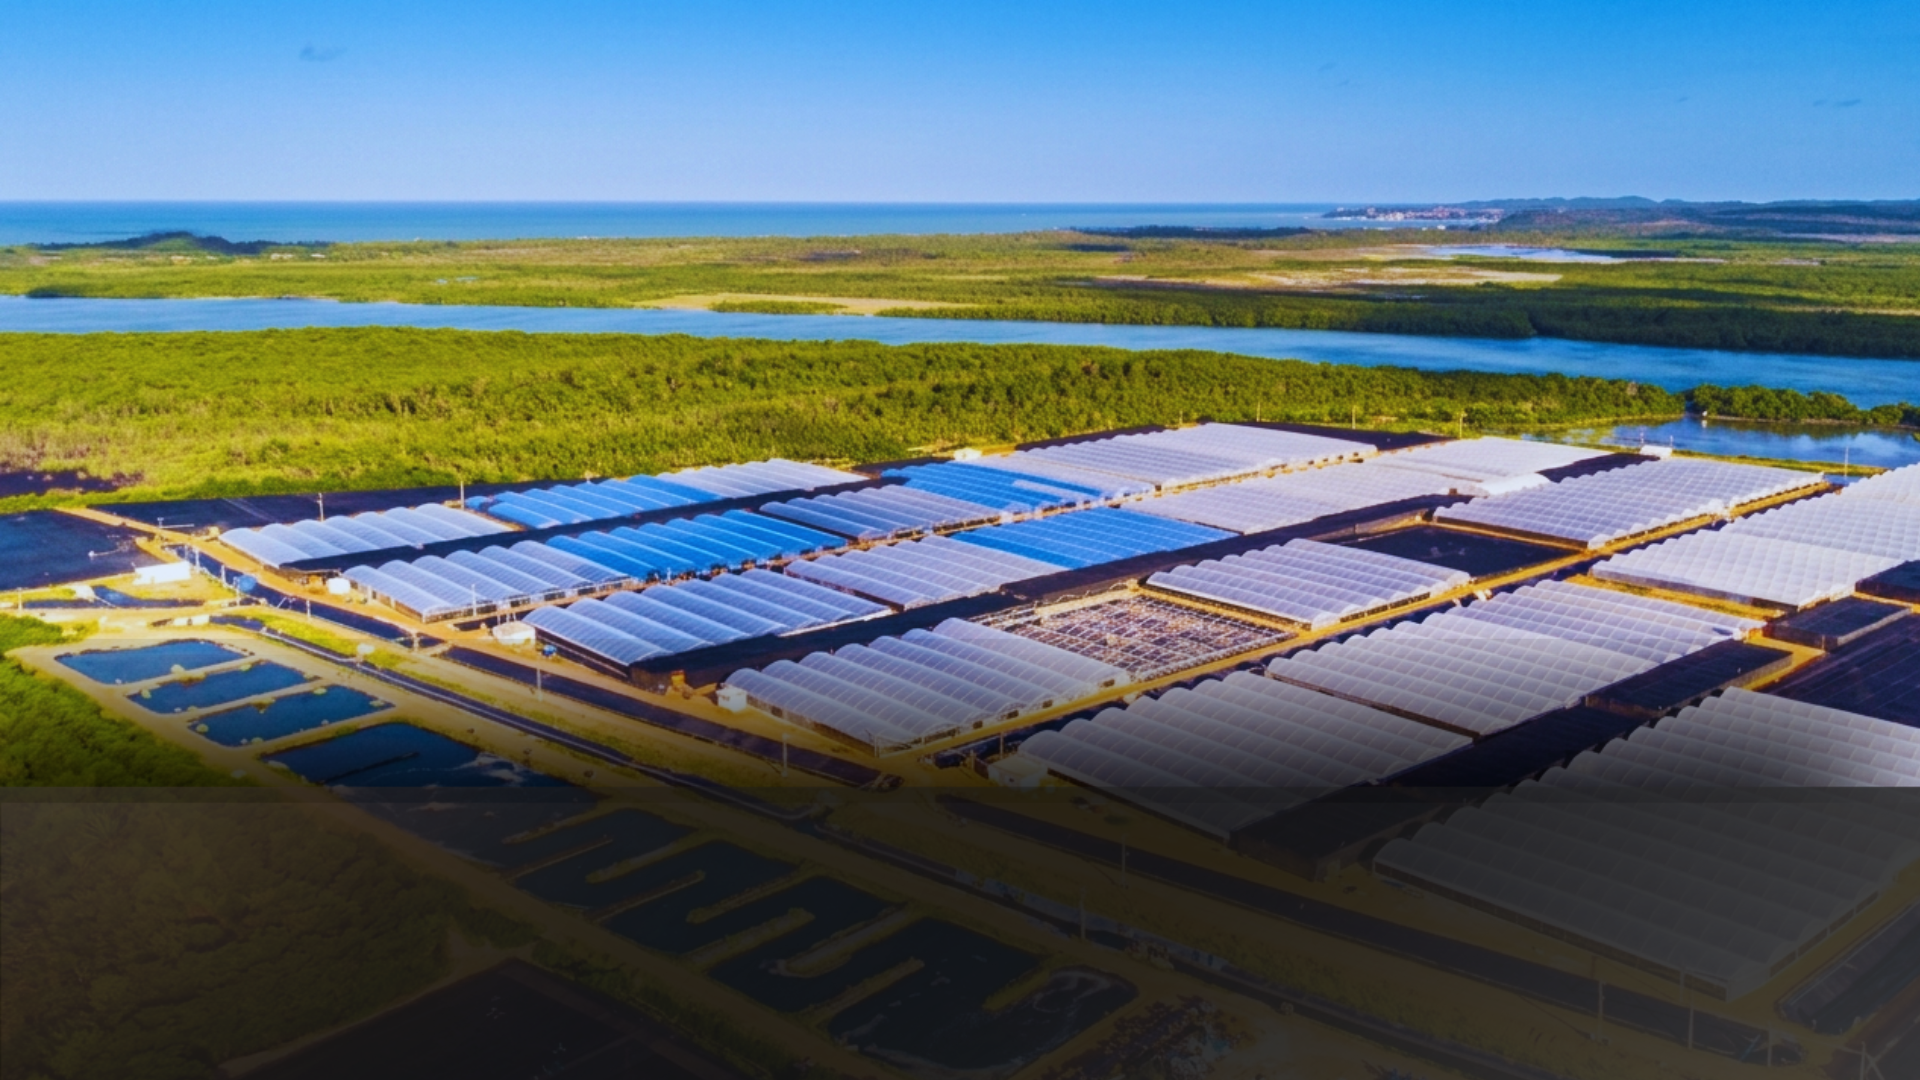
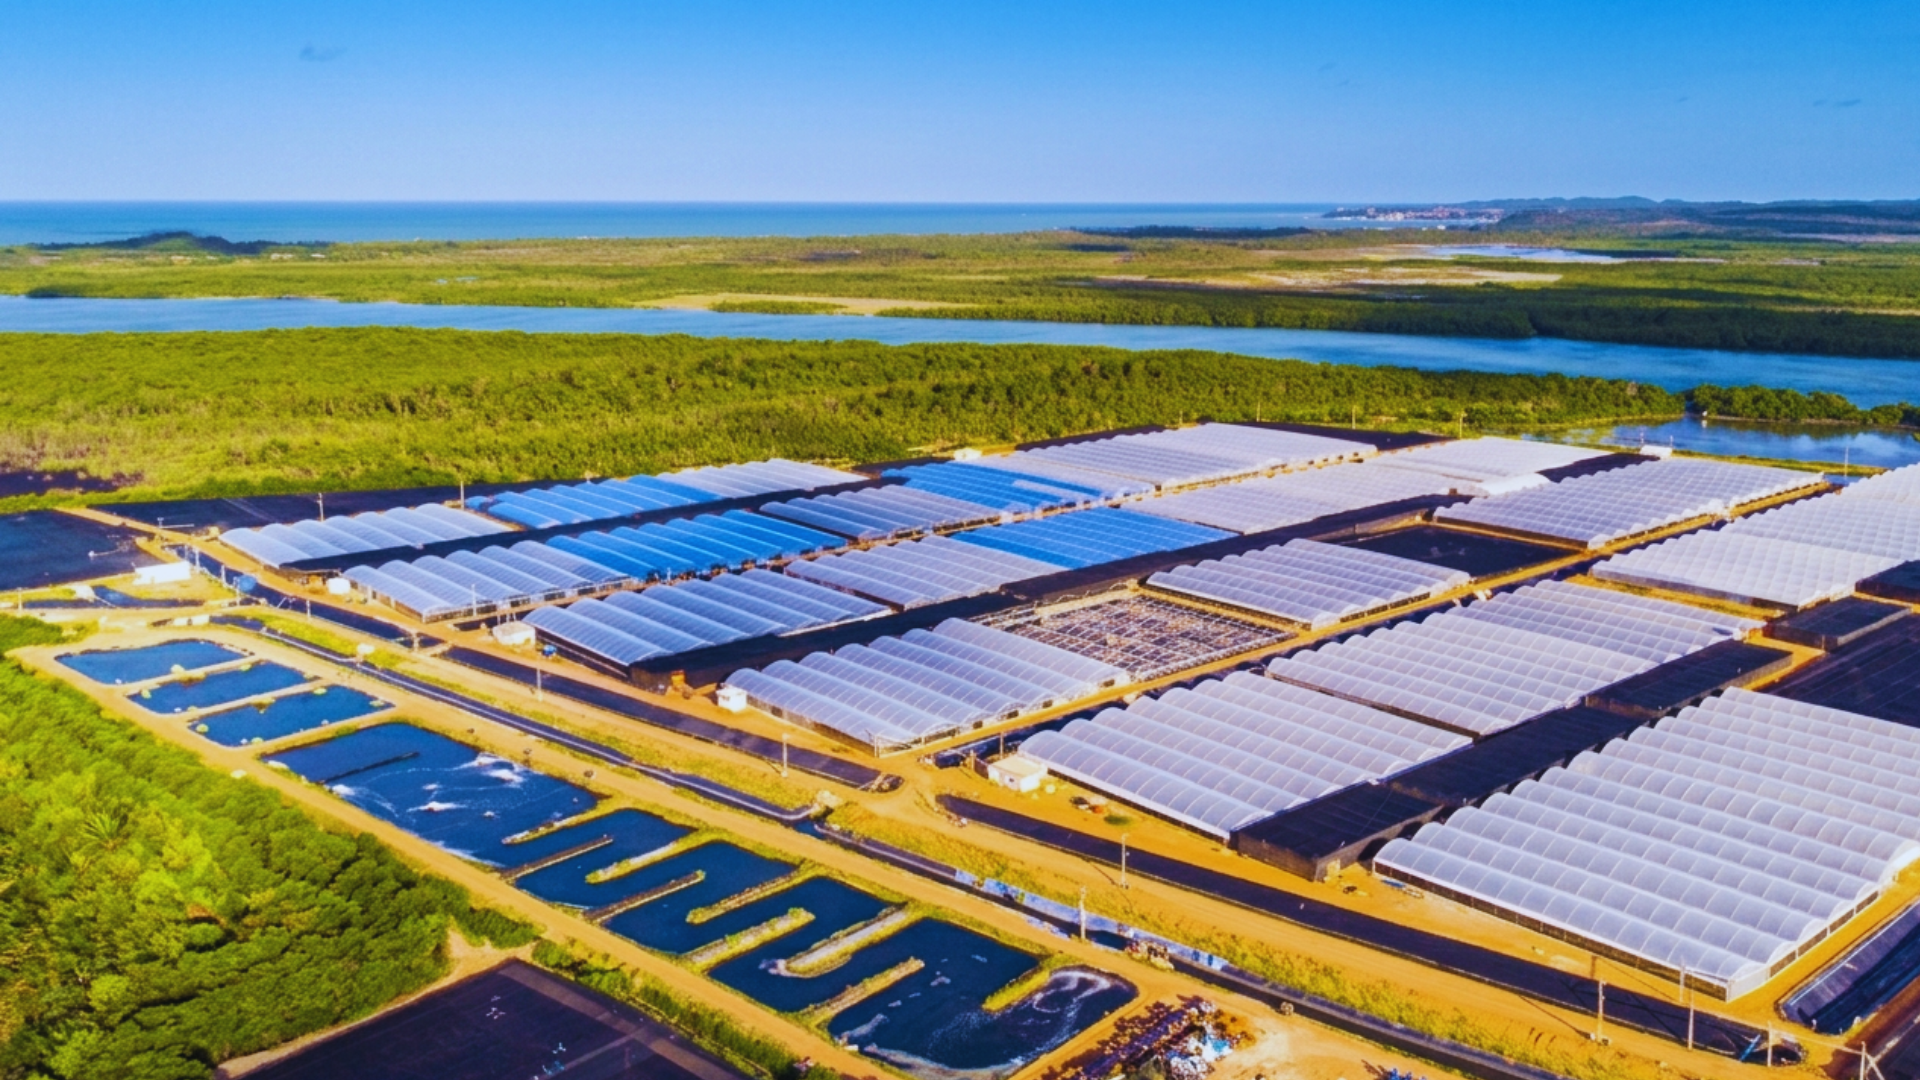
Ajustado os títulos e animações, obs: ainda falta ajustar a responsividade

diff --git a/templates/base.html b/templates/base.html
@@ -75,13 +75,13 @@
         const isDesktop = window.innerWidth > 992;
         const sr = ScrollReveal({
             reset: false,
-            duration: 1000,
+            duration: 1500,
             distance: '30px',
             mobile: true
         });
         sr.reveal('.navbar-brand', { origin: 'left', delay: 200 });
         if (isDesktop) {
-            sr.reveal('.nav-item', { origin: 'top', interval: 200, delay: 400 });
+            sr.reveal('.nav-item', { origin: 'top', interval: 200, delay: 200 });
         }
     </script>
 
@@ -151,30 +151,66 @@
     <!-- SCROLL REVEAL - do compromisso -->
     <script>
     sr.reveal('.compromisso-titulo', {
-        duration: 1000,
+        duration: 2000,
         origin: 'bottom',
-        distance: '20px',
+        distance: '30px',
         mobile: true
     });
 
     sr.reveal('.compromisso-grid img', {
-        duration: 1000,
+        duration: 2000,
         origin: 'bottom',
-        distance: '20px',
+        distance: '30px',
         interval: 200
     });
 </script>
+
 <script>
     sr.reveal('.produtos-titulo', {
-        duration: 1000,
+        duration: 2000,
         origin: 'bottom',
-        distance: '20px',
+        distance: '30px',
+        mobile: true
+        
+    });
+</script>
+
+<script>
+    sr.reveal('.inovacao-titulo', {
+        duration: 2000,
+        origin: 'bottom',
+        distance: '30px',
         mobile: true
         
     });
 
-
+    sr.reveal('.inovacao-grid img', {
+        duration: 2000,
+        origin: 'bottom',
+        distance: '30px',
+        interval: 200
+    });
 </script>
+
+<script>
+    sr.reveal('.custom-caption h5', {
+        duration: 1000,
+        origin: 'left',
+        distance: '30px',
+        delay: 500
+    });
+</script>
+
+<script>
+    sr.reveal('.custom-caption p', {
+        duration: 1000,
+        origin: 'left',
+        distance: '30px',
+        delay: 500
+    });
+</script>
+
+
 
     {% block extra_js %}{% endblock %}
 

diff --git a/static/css/paginaInicial.css b/static/css/paginaInicial.css
@@ -30,7 +30,7 @@
 #bannerCamanor .carousel-item img {
     width: 100%;
     height: 100%;
-    object-fit: cover;       /* troque por "fill" se quiser esticar sem cortar */
+    object-fit: fill;       /* troque por "fill" se quiser esticar sem cortar */
     object-position: center;
     display: block;
 }
@@ -50,15 +50,24 @@
     color: #ffffff;
     font-size: 2.5rem;
     font-family: 'Franklin Gothic Medium', 'Arial Narrow', Arial, sans-serif;
-    text-shadow: 0 2px 6px rgba(0, 0, 0, 0.45);
-    margin-bottom: 0.5rem;
+    /* Efeito de profundidade em camadas */
+    text-shadow: 
+        2px 2px 0px #474747,   /* Camada cinza intermediária */
+        4px 4px 0px #444444,   /* Camada cinza escura */
+        6px 6px 8px rgba(0, 0, 0, 0.3); /* Sombra suave no fundo */
+    margin-bottom: 0.9rem;
+    margin-left: 60px;
+    text-transform: uppercase; /* Para combinar com a imagem */
 }
 
 #bannerCamanor .custom-caption p {
-    margin-left: 10px;
     color: #f0f0f0;
     font-family: 'Lucida Sans', 'Lucida Grande', Geneva, Verdana, sans-serif;
-    text-shadow: 0 1px 4px rgba(0, 0, 0, 0.4);
+    /* Efeito similar, mas mais sutil para o parágrafo */
+    text-shadow: 
+        1px 1px 0px #3a3a3a, 
+        2px 2px 0px #1a1a1a;
+    margin-left: 60px;
 }
 
 
@@ -92,7 +101,7 @@
 
 
 /* ==========================================================================
-   SEÇÃO COMPROMISSO — adicione no paginaInicial.css
+   SEÇÃO COMPROMISSO
    ========================================================================== */
  
 .compromisso {
@@ -326,7 +335,7 @@
  
 .inovacao-titulo {
     color: #0a3d62;
-    font-size: 1.2rem;
+    font-size: 1.5rem;
     font-weight: 600;
     margin-bottom: 32px;
     font-family: 'Franklin Gothic Medium', 'Arial Narrow', Arial, sans-serif;

diff --git a/templates/paginaInicial.html b/templates/paginaInicial.html
@@ -19,7 +19,7 @@
 
     <div class="carousel-inner">
         <div class="carousel-item active">
-            <img src="{% static 'img/camanorFoto2.png' %}" alt="Processamento de Camarão">
+            <img src="{% static 'img/camanorFoto1.png' %}" alt="Processamento de Camarão">
             <div class="carousel-caption d-none d-md-block text-start custom-caption">
                 <h5>Tecnologia e Sustentabilidade</h5>
                 <p>Líderes em inovação no cultivo de camarões com alta tecnologia.</p>
@@ -27,7 +27,7 @@
         </div>
 
         <div class="carousel-item">
-            <img src="{% static 'img/camanorFoto1.png' %}" alt="Fábrica Camanor">
+            <img src="{% static 'img/camanorFoto2.png' %}" alt="Fábrica Camanor">
             <div class="carousel-caption d-none d-md-block text-start custom-caption">
                 <h5>Qualidade Internacional</h5>
                 <p>Garantimos o melhor produto da nossa fazenda para a sua mesa.</p>
@@ -132,9 +132,11 @@
 {% block extra_js %}
 <script>
     sr.reveal('#bannerCamanor', {
-        duration: 1500,
+        duration: 1000,
         origin: 'bottom',
         distance: '30px'
     });
+
+    
 </script>
 {% endblock %}

diff --git a/projetoCamanor/settings.py b/projetoCamanor/settings.py
@@ -24,7 +24,7 @@ BASE_DIR = Path(__file__).resolve().parent.parent
 SECRET_KEY = 'django-insecure-o=nq$8f6%@t=j$0ymk2b2o4ezfa7b35=(asd6zvo+&s6a7ee1u'
 
 # SECURITY WARNING: don't run with debug turned on in production!
-DEBUG = False
+DEBUG = True
 
 ALLOWED_HOSTS = ['projeto-camanor.onrender.com', 'localhost', '127.0.0.1']
 
